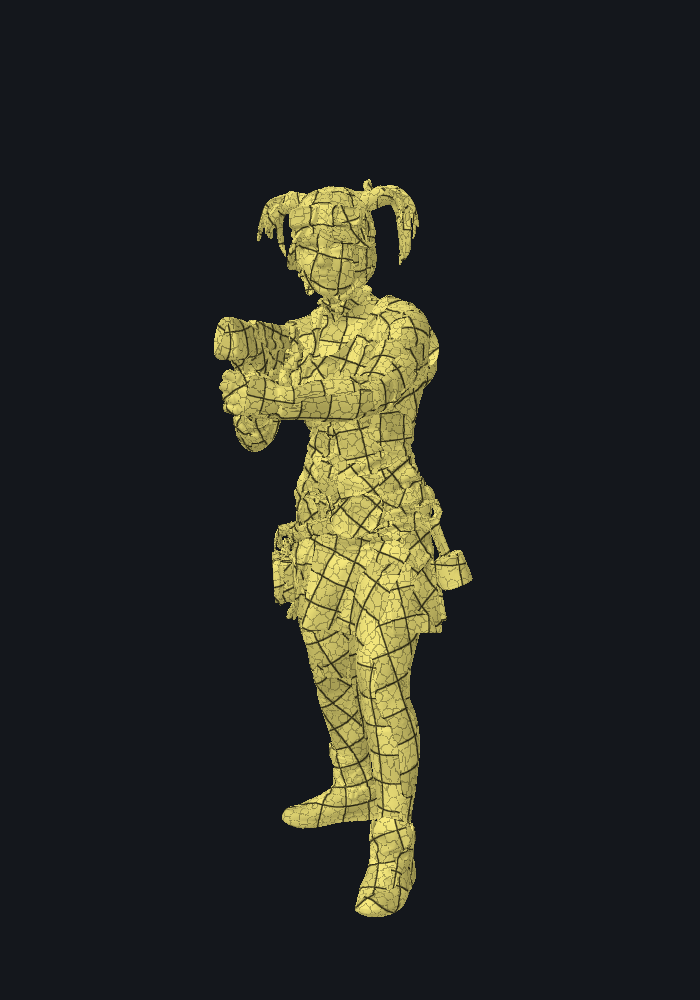
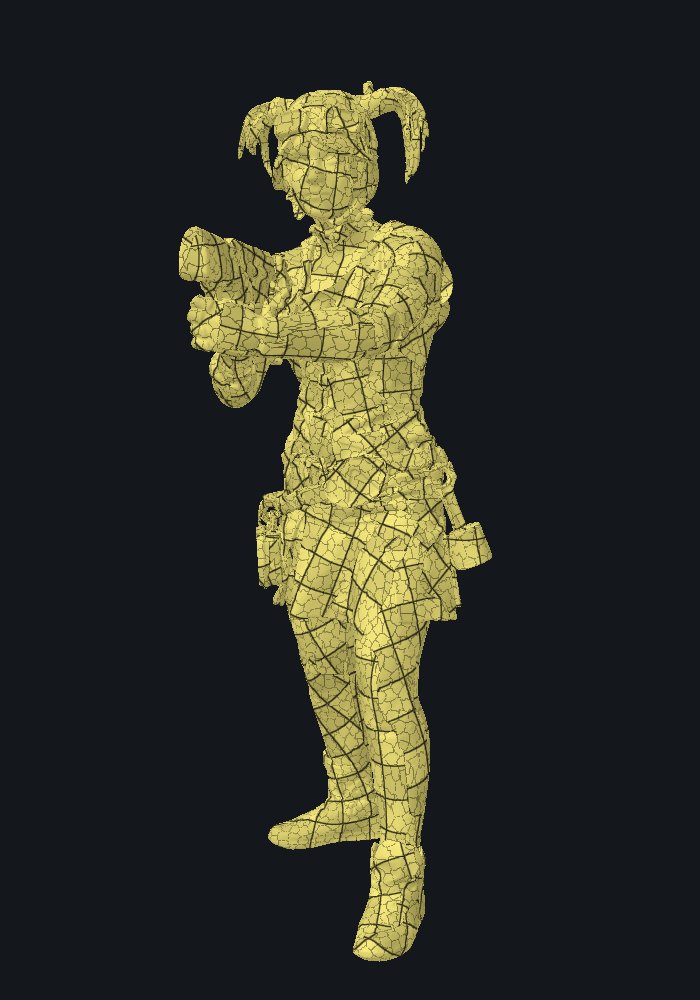
Docs: figures from meshlet-viewer, tables from recomputed results
- Figures 10 and 11 (metasphere and cosplay levels) are meshlet-viewer
  screenshots of .mlod files recomputed with the current build, each level in
  its viewer color; the Python level renderer is removed and the duplicate
  fixed-level figure folded in. All other viewer shots and the atlas figure
  are recaptured from the same runs.
- Tables 2 and 4 show cosplay levels 0-7; Table 3 and the text that quotes it
  use fresh timed runs.
- The abstract's stat boxes are removed.

Changed region(s): [[0.24, 0.062, 0.72, 0.961]]

diff --git a/docs/index.html b/docs/index.html
@@ -88,16 +88,10 @@
     <p>Cluster-based level of detail renders a mesh as a cut through a directed acyclic graph of small triangle clusters (meshlets), swapping groups of fine clusters for coarser ones as they shrink on screen. The usual construction simplifies each group with its outer border locked, which keeps neighbouring clusters crack-free but leaves the border at full resolution on every level and produces clusters whose shape follows whatever the simplifier left. <strong>meshlet-optimizer</strong> builds the DAG the other way around: it first segments the surface into compact, disk-shaped charts with a restricted centroidal Voronoi tessellation, then merges cliques of adjacent charts level by level into a region hierarchy. Each new region is flattened with least-squares conformal maps and remeshed in the plane with blue noise, a restricted 2D CVT and a constrained Delaunay triangulation, while its border is coarsened by edge collapses whose removed vertices are snapped onto the coarser border on every finer level. Borders are therefore <em>nested</em>: every border of every level lies on the borders of the levels below it, so any mix of levels drawn side by side is crack-free, and borders get coarser along with the interiors. Every region becomes exactly one meshlet, groups are the regions that merge into one parent, and the result is written as a <code>.mlod</code> file that <a href="https://github.com/rgb2hsv/meshlet-viewer">meshlet-viewer</a> renders with mesh shaders. Texture seams are kept as region borders, so UVs are carried through every level; a mesh without UVs instead gets one packed atlas per level. On a 600K-triangle scanned figure the texture sampled at level 4 lies within 1.9 mean edge lengths of the right surface point for 99% of triangles.</p>
   </div>
 
-  <div class="stats">
-    <div class="stat"><b>1 meshlet</b><span>per region per level</span></div>
-    <div class="stat"><b>0 cracks</b><span>between any two levels (checked)</span></div>
-    <div class="stat"><b>24 s</b><span>metasphere, 132K triangles, 10 levels</span></div>
-    <div class="stat"><b>150 s</b><span>cosplay scan, 600K triangles, 13 levels</span></div>
-  </div>
   <div class="pills">
     <span class="pill">C++20</span><span class="pill">OpenMP</span><span class="pill">Eigen</span>
     <span class="pill">Restricted CVT</span><span class="pill">LSCM</span><span class="pill">Constrained Delaunay</span>
-    <span class="pill">L-BFGS</span><span class="pill">meshoptimizer clusterlod BVH</span><span class="pill">Windows · macOS</span>
+    <span class="pill">L-BFGS</span><span class="pill">meshoptimizer clusterlod BVH</span><span class="pill">Windows · Linux · macOS</span>
   </div>
 </header>
 
@@ -329,8 +323,14 @@
 
 <h3 id="r-levels"><span class="num">4.2</span>Level structure<a class="anchor" href="#r-levels" aria-label="Link to this section"></a></h3>
 <figure id="fig-metasphere">
-  <img src="figures/metasphere-levels.png" alt="Metasphere levels 0, 2, 4, 6 and 9 colored by region" width="1532" height="300">
-  <figcaption><span class="fig">Figure 10.</span> Metasphere levels 0, 2, 4, 6 and 9, colored by region (one region = one meshlet), region borders dark, triangle edges drawn where triangles are large enough to see. Borders coarsen along with the interiors, and every border is a subset of the borders to its left.</figcaption>
+  <div class="shots">
+    <div><img src="figures/viewer-metasphere-level0.png" alt="metasphere level 0 in meshlet-viewer" width="700" height="700" loading="lazy"><span class="sub">level 0 · 1,138 meshlets</span></div>
+    <div><img src="figures/viewer-metasphere-level2.png" alt="metasphere level 2 in meshlet-viewer" width="700" height="700" loading="lazy"><span class="sub">level 2 · 258 meshlets</span></div>
+    <div><img src="figures/viewer-metasphere-level4.png" alt="metasphere level 4 in meshlet-viewer" width="700" height="700" loading="lazy"><span class="sub">level 4 · 56 meshlets</span></div>
+    <div><img src="figures/viewer-metasphere-level6.png" alt="metasphere level 6 in meshlet-viewer" width="700" height="700" loading="lazy"><span class="sub">level 6 · 22 meshlets</span></div>
+    <div><img src="figures/viewer-metasphere-level9.png" alt="metasphere level 9 in meshlet-viewer" width="700" height="700" loading="lazy"><span class="sub">level 9 · 4 meshlets</span></div>
+  </div>
+  <figcaption><span class="fig">Figure 10.</span> The metasphere <code>.mlod</code> in meshlet-viewer at fixed DAG levels 0, 2, 4, 6 and 9 (<code>--lod-level</code>), as the viewer draws it: every meshlet of a level in that level's color (lighter is finer), meshlet outlines in black, triangle wireframe in thin lines. One region is one meshlet. Borders coarsen along with the interiors, and every border is drawn along borders of the finer levels.</figcaption>
 </figure>
 
 <div class="table-wrap">
@@ -354,23 +354,19 @@
 
 <p>The metasphere gives 10 levels, 2,379 meshlets in 823 groups and 222,748 triangles over all levels, 1.68× the input. After level 1 every level has 40–45% of the triangles of the one below, and regions settle at about 80 triangles, a third of the meshlet limit: the split threshold keeps them from growing, and border simplification keeps the border share of each region roughly constant. Level 1 has smaller regions than level 0 because the many merges that exceed 256 triangles are split in two.</p>
 
-<figure id="fig-viewer-levels">
-  <div class="shots">
-    <div><img src="figures/viewer-metasphere-level0.png" alt="metasphere level 0 in meshlet-viewer" width="900" height="900" loading="lazy"><span class="sub">level 0 · 1,138 meshlets</span></div>
-    <div><img src="figures/viewer-metasphere-level3.png" alt="metasphere level 3 in meshlet-viewer" width="900" height="900" loading="lazy"><span class="sub">level 3 · 111 meshlets</span></div>
-    <div><img src="figures/viewer-metasphere-level6.png" alt="metasphere level 6 in meshlet-viewer" width="900" height="900" loading="lazy"><span class="sub">level 6 · 22 meshlets</span></div>
-  </div>
-  <figcaption><span class="fig">Figure 11.</span> The metasphere <code>.mlod</code> in meshlet-viewer at fixed DAG levels (<code>--lod-level</code>): one meshlet per region, outlined in black, with the triangle wireframe in thin lines.</figcaption>
-</figure>
-
 <figure id="fig-cosplay">
-  <img src="figures/cosplay-levels.png" alt="Cosplay levels 1, 3, 5 and 12 colored by region" width="1368" height="560">
-  <figcaption><span class="fig">Figure 12.</span> Cosplay levels 1, 3, 5 and 12. Regions never cross UV seams, so small texture islands (buttons, straps, eyes) remain separate regions up to the top level.</figcaption>
+  <div class="shots">
+    <div><img src="figures/viewer-cosplay-level1.png" alt="cosplay level 1 in meshlet-viewer" width="700" height="1000" loading="lazy"><span class="sub">level 1 · 3,914 regions</span></div>
+    <div><img src="figures/viewer-cosplay-level3.png" alt="cosplay level 3 in meshlet-viewer" width="700" height="1000" loading="lazy"><span class="sub">level 3 · 705 regions</span></div>
+    <div><img src="figures/viewer-cosplay-level5.png" alt="cosplay level 5 in meshlet-viewer" width="700" height="1000" loading="lazy"><span class="sub">level 5 · 353 regions</span></div>
+    <div><img src="figures/viewer-cosplay-level12.png" alt="cosplay level 12 in meshlet-viewer" width="700" height="1000" loading="lazy"><span class="sub">level 12 · 299 regions</span></div>
+  </div>
+  <figcaption><span class="fig">Figure 11.</span> The cosplay <code>.mlod</code> in meshlet-viewer at fixed DAG levels 1, 3, 5 and 12, each in its level's color with meshlet outlines. Regions never cross UV seams, so small texture islands (buttons, straps, eyes) remain separate meshlets up to the top level.</figcaption>
 </figure>
 
 <div class="table-wrap">
 <table>
-<caption><span class="fig">Table 2.</span> Levels of the cosplay scan. From level 6 on, most regions are whole UV islands and can no longer merge.</caption>
+<caption><span class="fig">Table 2.</span> The first eight levels of the cosplay scan (levels 0–7 of 13). From level 6 on, most regions are whole UV islands and can no longer merge; levels 8–12 keep 299 regions.</caption>
 <thead><tr><th class="n">Level</th><th class="n">Vertices</th><th class="n">Triangles</th><th class="n">Regions</th><th class="n">Triangles / region</th></tr></thead>
 <tbody>
 <tr><td class="n">0</td><td class="n">299,816</td><td class="n">599,698</td><td class="n">10,441</td><td class="n">57.4</td></tr>
@@ -378,9 +374,9 @@
 <tr><td class="n">2</td><td class="n">49,753</td><td class="n">99,572</td><td class="n">1,490</td><td class="n">66.8</td></tr>
 <tr><td class="n">3</td><td class="n">22,966</td><td class="n">45,998</td><td class="n">705</td><td class="n">65.2</td></tr>
 <tr><td class="n">4</td><td class="n">12,389</td><td class="n">24,844</td><td class="n">449</td><td class="n">55.3</td></tr>
+<tr><td class="n">5</td><td class="n">7,942</td><td class="n">15,950</td><td class="n">353</td><td class="n">45.2</td></tr>
 <tr><td class="n">6</td><td class="n">6,292</td><td class="n">12,650</td><td class="n">319</td><td class="n">39.7</td></tr>
-<tr><td class="n">9</td><td class="n">5,498</td><td class="n">11,062</td><td class="n">299</td><td class="n">37.0</td></tr>
-<tr><td class="n">12</td><td class="n">5,490</td><td class="n">11,046</td><td class="n">299</td><td class="n">36.9</td></tr>
+<tr><td class="n">7</td><td class="n">5,677</td><td class="n">11,420</td><td class="n">302</td><td class="n">37.8</td></tr>
 </tbody>
 </table>
 </div>
@@ -392,33 +388,34 @@
 <caption><span class="fig">Table 3.</span> Stage times in seconds, 20 threads. The metasphere run includes the atlas stage (no input UVs); totals include reading the PLY and building the projection tree.</caption>
 <thead><tr><th>Stage</th><th class="n">Metasphere</th><th class="n">Cosplay</th></tr></thead>
 <tbody>
-<tr><td>Base charts (RCVT, regularization, seams)</td><td class="n">2.45</td><td class="n">15.94</td></tr>
-<tr><td>Level loop (all levels)</td><td class="n">3.37</td><td class="n">29.67</td></tr>
-<tr><td>Flat triangles</td><td class="n">0.44</td><td class="n">5.73</td></tr>
-<tr><td>Border relaxation</td><td class="n">14.97</td><td class="n">95.35</td></tr>
-<tr><td>UV atlases</td><td class="n">1.87</td><td class="n">—</td></tr>
-<tr><td>Write .mlod</td><td class="n">0.31</td><td class="n">1.98</td></tr>
-<tr class="best"><td><strong>Total</strong></td><td class="n"><strong>23.8</strong></td><td class="n"><strong>150.5</strong></td></tr>
+<tr><td>Base charts (RCVT, regularization, seams)</td><td class="n">2.45</td><td class="n">15.37</td></tr>
+<tr><td>Level loop (all levels)</td><td class="n">3.35</td><td class="n">27.02</td></tr>
+<tr><td>Flat triangles</td><td class="n">0.38</td><td class="n">5.72</td></tr>
+<tr><td>Border relaxation</td><td class="n">14.69</td><td class="n">92.49</td></tr>
+<tr><td>UV atlases</td><td class="n">1.85</td><td class="n">—</td></tr>
+<tr><td>Write .mlod</td><td class="n">0.33</td><td class="n">2.03</td></tr>
+<tr class="best"><td><strong>Total</strong></td><td class="n"><strong>23.1</strong></td><td class="n"><strong>143.4</strong></td></tr>
 </tbody>
 </table>
 </div>
-<p>The border relaxation dominates: it optimizes every border vertex of every level jointly, and most of its time is spent inside LBFGSpp's bound-constrained line search rather than in the energy and gradient evaluation, which are parallel. The level loop itself is fast because each level is a fraction of the one below; level 1 alone accounts for half of it. Earlier versions of the pipeline took about 70 s on the metasphere; the factored LSCM solve (15 s → 1.7 s) and an analytic relaxation gradient (53 s → 15 s) account for most of the difference.</p>
+<p>The border relaxation dominates: it optimizes every border vertex of every level jointly, and most of its time is spent inside LBFGSpp's bound-constrained line search rather than in the energy and gradient evaluation, which are parallel. The level loop itself is fast because each level is a fraction of the one below; level 1 alone accounts for half of it on the metasphere and a third on cosplay. Earlier versions of the pipeline took about 70 s on the metasphere; the factored LSCM solve (15 s → 1.7 s) and an analytic relaxation gradient (53 s → 15 s) account for most of the difference.</p>
 
 <h3 id="r-uv"><span class="num">4.4</span>Texture fidelity<a class="anchor" href="#r-uv" aria-label="Link to this section"></a></h3>
 <p>Measuring UV accuracy on a coarse level needs care. Comparing a triangle's UV with the UV of the <em>nearest</em> point on the input fails on thin parts (fingers, straps, cloth edges), where the nearest point of a coarse triangle can lie on a different island, and gave spurious errors of thousands of texels. We instead measure in the direction the renderer uses the data: for every output triangle, take the UV at its centroid, find the input triangle that contains that UV (choosing the nearest in 3D when the atlas reuses texture area), map it to its 3D point, and report the distance <i>d</i><sub>tex</sub> from the triangle's centroid to that point. It is compared with the geometric error <i>d</i><sub>geo</sub>, the centroid's distance to the input surface. Distances are in input mean edge lengths (3.40 units). A triangle is counted as <em>mismatched</em> when <i>d</i><sub>tex</sub> &gt; <i>d</i><sub>geo</sub> + 4.</p>
 
 <div class="table-wrap">
 <table>
-<caption><span class="fig">Table 4.</span> Texture fidelity on cosplay: geometric error vs. distance to the surface point the texture is sampled from, in mean edge lengths (p50 / p99), mismatched triangles and triangles whose UV centroid falls outside every input chart by more than 2 texels.</caption>
+<caption><span class="fig">Table 4.</span> Texture fidelity on cosplay, levels 0–7: geometric error vs. distance to the surface point the texture is sampled from, in mean edge lengths (p50 / p99), mismatched triangles and triangles whose UV centroid falls outside every input chart by more than 2 texels.</caption>
 <thead><tr><th class="n">Level</th><th class="n">d<sub>geo</sub> p50</th><th class="n">d<sub>geo</sub> p99</th><th class="n">d<sub>tex</sub> p50</th><th class="n">d<sub>tex</sub> p99</th><th class="n">Mismatched</th><th class="n">Off-chart</th></tr></thead>
 <tbody>
 <tr><td class="n">0</td><td class="n">0.01</td><td class="n">0.19</td><td class="n">0.02</td><td class="n">0.34</td><td class="n">1</td><td class="n">0.00%</td></tr>
 <tr><td class="n">1</td><td class="n">0.04</td><td class="n">0.34</td><td class="n">0.07</td><td class="n">0.45</td><td class="n">2</td><td class="n">0.00%</td></tr>
 <tr><td class="n">2</td><td class="n">0.07</td><td class="n">0.55</td><td class="n">0.11</td><td class="n">0.68</td><td class="n">1</td><td class="n">0.01%</td></tr>
-<tr><td class="n">4</td><td class="n">0.20</td><td class="n">1.34</td><td class="n">0.26</td><td class="n">1.87</td><td class="n">0</td><td class="n">0.05%</td></tr>
+<tr><td class="n">3</td><td class="n">0.13</td><td class="n">0.88</td><td class="n">0.16</td><td class="n">1.14</td><td class="n">1</td><td class="n">0.03%</td></tr>
+<tr><td class="n">4</td><td class="n">0.20</td><td class="n">1.34</td><td class="n">0.26</td><td class="n">1.87</td><td class="n">1</td><td class="n">0.05%</td></tr>
+<tr><td class="n">5</td><td class="n">0.26</td><td class="n">1.93</td><td class="n">0.34</td><td class="n">2.85</td><td class="n">5 (0.03%)</td><td class="n">0.10%</td></tr>
 <tr><td class="n">6</td><td class="n">0.29</td><td class="n">2.44</td><td class="n">0.38</td><td class="n">3.70</td><td class="n">14 (0.11%)</td><td class="n">0.17%</td></tr>
-<tr><td class="n">9</td><td class="n">0.29</td><td class="n">3.58</td><td class="n">0.39</td><td class="n">5.14</td><td class="n">28 (0.25%)</td><td class="n">0.21%</td></tr>
-<tr><td class="n">12</td><td class="n">0.28</td><td class="n">3.66</td><td class="n">0.39</td><td class="n">5.44</td><td class="n">28 (0.25%)</td><td class="n">0.21%</td></tr>
+<tr><td class="n">7</td><td class="n">0.29</td><td class="n">3.02</td><td class="n">0.39</td><td class="n">4.39</td><td class="n">20 (0.18%)</td><td class="n">0.19%</td></tr>
 </tbody>
 </table>
 </div>
@@ -430,19 +427,19 @@
     <div><img src="figures/viewer-cosplay-uv-level4.png" alt="cosplay level 4 UV grid" width="700" height="1000" loading="lazy"><span class="sub">level 4</span></div>
     <div><img src="figures/viewer-cosplay-uv-level9.png" alt="cosplay level 9 UV grid" width="700" height="1000" loading="lazy"><span class="sub">level 9</span></div>
   </div>
-  <figcaption><span class="fig">Figure 13.</span> Cosplay's own texture coordinates in meshlet-viewer's UV grid (<code>--uv-grid</code>) at levels 0, 4 and 9. The grid follows the input atlas on every level: it stays continuous across meshlets inside each UV island and breaks only at the input's texture seams, which are region borders.</figcaption>
+  <figcaption><span class="fig">Figure 12.</span> Cosplay's own texture coordinates in meshlet-viewer's UV grid (<code>--uv-grid</code>) at levels 0, 4 and 9. The grid follows the input atlas on every level: it stays continuous across meshlets inside each UV island and breaks only at the input's texture seams, which are region borders.</figcaption>
 </figure>
 
 <h3 id="r-atlas"><span class="num">4.5</span>Generated atlases<a class="anchor" href="#r-atlas" aria-label="Link to this section"></a></h3>
 <figure id="fig-atlas">
   <img src="figures/metasphere-atlases.png" alt="UV atlases of metasphere levels 0, 3, 6 and 9" width="1224" height="300">
-  <figcaption><span class="fig">Figure 14.</span> Generated UV atlases of metasphere levels 0, 3, 6 and 9 (1,138, 111, 22 and 4 charts), one per level, each filling the unit square. Charts keep their shape and their relative size: all charts of a level share one scale.</figcaption>
+  <figcaption><span class="fig">Figure 13.</span> Generated UV atlases of metasphere levels 0, 3, 6 and 9 (1,138, 111, 22 and 4 charts), one per level, each filling the unit square. Charts keep their shape and their relative size: all charts of a level share one scale.</figcaption>
 </figure>
 <p>Every atlas was rasterized at 1024² and checked: all UVs lie in [0, 1]², the ratio of UV area to 3D area is identical for every chart of a level (min/median = max/median = 1.000), and no pixel is covered by two charts. Coverage falls from 62% at level 0, where many similar small charts pack tightly, to 40–45% for the few large, irregular charts of coarse levels. The two coarsest levels each contain one triangle folded by LSCM (level 9: 254 pixels of self-overlap within one chart), a limitation of flattening very large curved regions conformally.</p>
 
 <figure id="fig-viewer-atlas">
   <img src="figures/viewer-metasphere-atlas-level2.png" alt="metasphere level 2 generated atlas as a UV grid" width="900" height="900" loading="lazy" style="max-width:560px;margin:0 auto">
-  <figcaption><span class="fig">Figure 15.</span> The generated atlas of metasphere level 2 as a UV grid in meshlet-viewer: nearly square cells (LSCM is conformal), continuous inside every chart, breaking only at chart borders.</figcaption>
+  <figcaption><span class="fig">Figure 14.</span> The generated atlas of metasphere level 2 as a UV grid in meshlet-viewer: nearly square cells (LSCM is conformal), continuous inside every chart, breaking only at chart borders.</figcaption>
 </figure>
 
 <h3 id="r-validation"><span class="num">4.6</span>Validation<a class="anchor" href="#r-validation" aria-label="Link to this section"></a></h3>
@@ -453,7 +450,7 @@
 <h2><span class="num">5</span>Limitations<a class="anchor" href="#limitations" aria-label="Link to this section"></a></h2>
 <ul>
   <li><strong>UV islands bound the coarsest level.</strong> Regions never cross a seam, so a textured model cannot get coarser than one region per island (299 regions on cosplay). Merging across seams would need texture-space resampling (baking) of the merged region.</li>
-  <li><strong>Border relaxation cost.</strong> The joint optimization over all levels takes 60% of the running time; a per-level or block-coordinate scheme would parallelize better.</li>
+  <li><strong>Border relaxation cost.</strong> The joint optimization over all levels takes almost two thirds of the running time (64% on both models); a per-level or block-coordinate scheme would parallelize better.</li>
   <li><strong>Conformal folds.</strong> LSCM can fold large curved regions. The remeshing stage detects folds and falls back to 3D decimation, and the atlas stage keeps the fold (one triangle on the coarsest metasphere levels). A bijective parametrization would remove both.</li>
   <li><strong>Storage.</strong> Every level stores its own vertices and triangles (1.68× the input's triangles over all levels on the metasphere, 1.84× on cosplay), and nested borders keep collinear border vertices on finer levels that a single-level simplifier would remove.</li>
   <li><strong>Atlases per level.</strong> Generated atlases are independent per level, so a texture must be baked for each level that is drawn.</li>
@@ -566,12 +563,10 @@ meshlets cosplay.mlod          <span class="c"># meshlet-viewer</span></code></p
 </div>
 
 <h3 id="a-figures"><span class="num">E</span>Reproducing the figures<a class="anchor" href="#a-figures" aria-label="Link to this section"></a></h3>
-<p>Every figure is generated by a script in <code>docs/figures</code> that needs nothing beyond the Python standard library. The step diagrams (Figures 2–8) run simplified planar versions of the tool's algorithms on a small Delaunay mesh (<code>make_diagrams.py</code>). The level renders and atlases are drawn from <code>--save-levels</code> output with a z-buffered rasterizer and a zlib PNG writer (<code>plyfig.py</code>), and the screenshots are taken with meshlet-viewer's <code>--screenshot</code> (<code>make_viewer_shots.py</code>).</p>
+<p>Every figure is generated by a script in <code>docs/figures</code> that needs nothing beyond the Python standard library. The step diagrams (Figures 2–8) run simplified planar versions of the tool's algorithms on a small Delaunay mesh (<code>make_diagrams.py</code>). The UV atlases are drawn from <code>--save-levels</code> output with a small rasterizer and a zlib PNG writer (<code>plyfig.py</code>, <code>make_atlas.py</code>). Every rendering of the meshes is a meshlet-viewer screenshot of the <code>.mlod</code> files themselves, taken with its <code>--screenshot</code> option (<code>make_viewer_shots.py</code>).</p>
 <pre><code>meshlet-optimizer assets/model/metasphere.ply -o metasphere.mlod --save-levels levels/metasphere
-meshlet-optimizer assets/model/cosplay.ply -o cosplay.mlod --save-levels levels/cosplay
+meshlet-optimizer assets/model/cosplay.ply -o cosplay.mlod
 cd docs/figures
-python make_level_renders.py ../../levels/metasphere metasphere-levels.png --levels 0 2 4 6 9 --size 300
-python make_level_renders.py ../../levels/cosplay cosplay-levels.png --levels 1 3 5 12 --size 560 --aspect 0.6 --yaw 25 --pitch 8
 python make_atlas.py ../../levels/metasphere metasphere-atlases.png --levels 0 3 6 9 --size 300
 python make_diagrams.py
 python make_viewer_shots.py path/to/meshlets metasphere.mlod cosplay.mlod</code></pre>

diff --git a/docs/style.css b/docs/style.css
@@ -471,22 +471,6 @@ figure.diagram svg .box.loop { stroke: var(--accent); }
 figure.diagram svg .arrow { stroke: var(--text-faint); stroke-width: 1.6; fill: none; }
 figure.diagram svg .accent { fill: var(--accent); }
 
-/* Key numbers under the abstract. */
-.stats {
-  display: grid;
-  grid-template-columns: repeat(auto-fit, minmax(150px, 1fr));
-  gap: 12px;
-  margin: 22px 0 0;
-}
-.stat {
-  background: var(--bg-elev);
-  border: 1px solid var(--border);
-  border-radius: var(--radius);
-  padding: 12px 14px;
-}
-.stat b { display: block; font-size: 22px; color: var(--heading); font-variant-numeric: tabular-nums; }
-.stat span { font-size: 12.5px; color: var(--text-muted); }
-
 /* Side-by-side screenshots in one figure. */
 .shots { display: grid; grid-template-columns: repeat(auto-fit, minmax(160px, 1fr)); gap: 10px; }
 .shots img { aspect-ratio: auto; }

diff --git a/docs/figures/make_viewer_shots.py b/docs/figures/make_viewer_shots.py
@@ -13,6 +13,9 @@ import subprocess
 import sys
 
 HERE = os.path.dirname(os.path.abspath(__file__))
+# The figure from the front, aimed at the middle of its bounding box (the default target, the vertex centroid,
+# sits at the chest and would crop the feet).
+COSPLAY_VIEW = ("--yaw", 0, "--pitch", 5, "--target", 0, 0, 0, "--zoom", 1.1)
 
 
 def shot(viewer, model, name, *args, width=900, height=900):
@@ -28,17 +31,22 @@ def main():
         sys.exit(__doc__)
     viewer, metasphere, cosplay = sys.argv[1:]
     # Fixed DAG levels: each region is one meshlet (black outlines), colored by level.
-    for level in (0, 3, 6):
-        shot(viewer, metasphere, "viewer-metasphere-level%d.png" % level, "--lod-level", level)
+    for level in (0, 2, 4, 6, 9):
+        shot(viewer, metasphere, "viewer-metasphere-level%d.png" % level, "--lod-level", level,
+             width=700, height=700)
     # Automatic LOD selection close up: levels 1-3 drawn side by side, meeting along shared borders.
     shot(viewer, metasphere, "viewer-metasphere-lod-cut.png", "--lod-error", 8, "--zoom", 1.7, "--pitch", 35)
     # The generated per-level atlas (no input UVs), shown as a UV grid.
     shot(viewer, metasphere, "viewer-metasphere-atlas-level2.png", "--lod-level", 2, "--uv-grid",
          "--uv-grid-cells", 48)
+    # Cosplay at fixed DAG levels: meshlets in their level's color, outlined.
+    for level in (1, 3, 5, 12):
+        shot(viewer, cosplay, "viewer-cosplay-level%d.png" % level, "--lod-level", level, *COSPLAY_VIEW,
+             width=700, height=1000)
     # Cosplay's own texture coordinates carried through the levels, shown as a UV grid.
     for level in (0, 4, 9):
         shot(viewer, cosplay, "viewer-cosplay-uv-level%d.png" % level, "--lod-level", level, "--uv-grid",
-             "--uv-grid-cells", 32, "--yaw", 0, "--pitch", 5, "--zoom", 0.9, width=700, height=1000)
+             "--uv-grid-cells", 32, *COSPLAY_VIEW, width=700, height=1000)
 
 
 if __name__ == "__main__":
